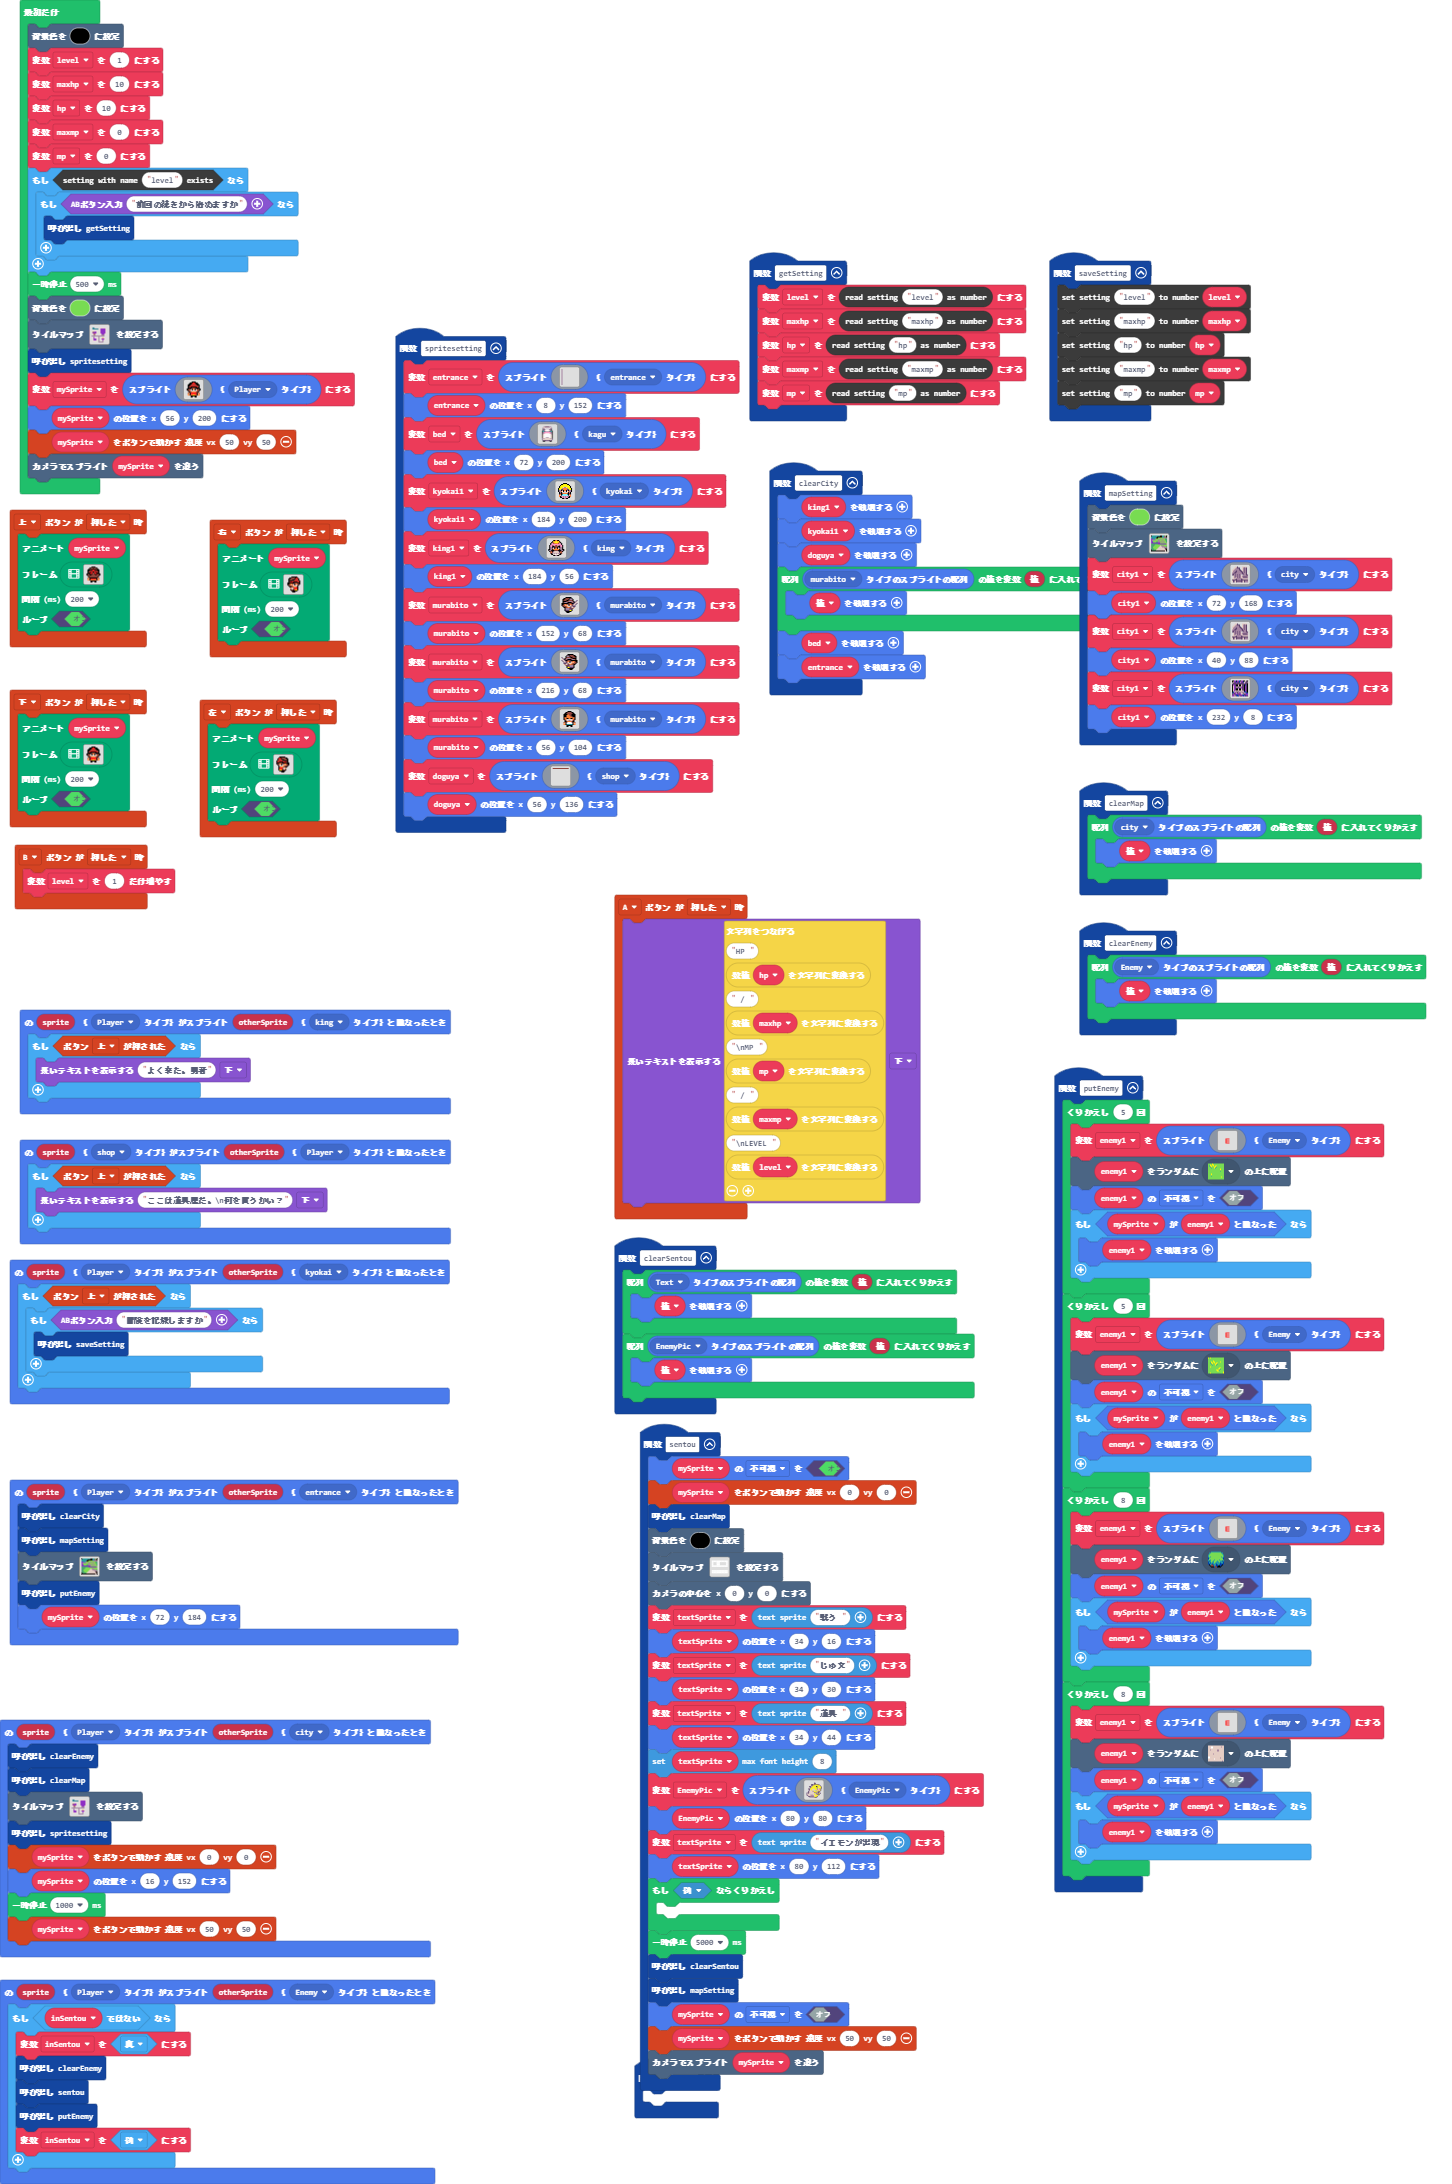
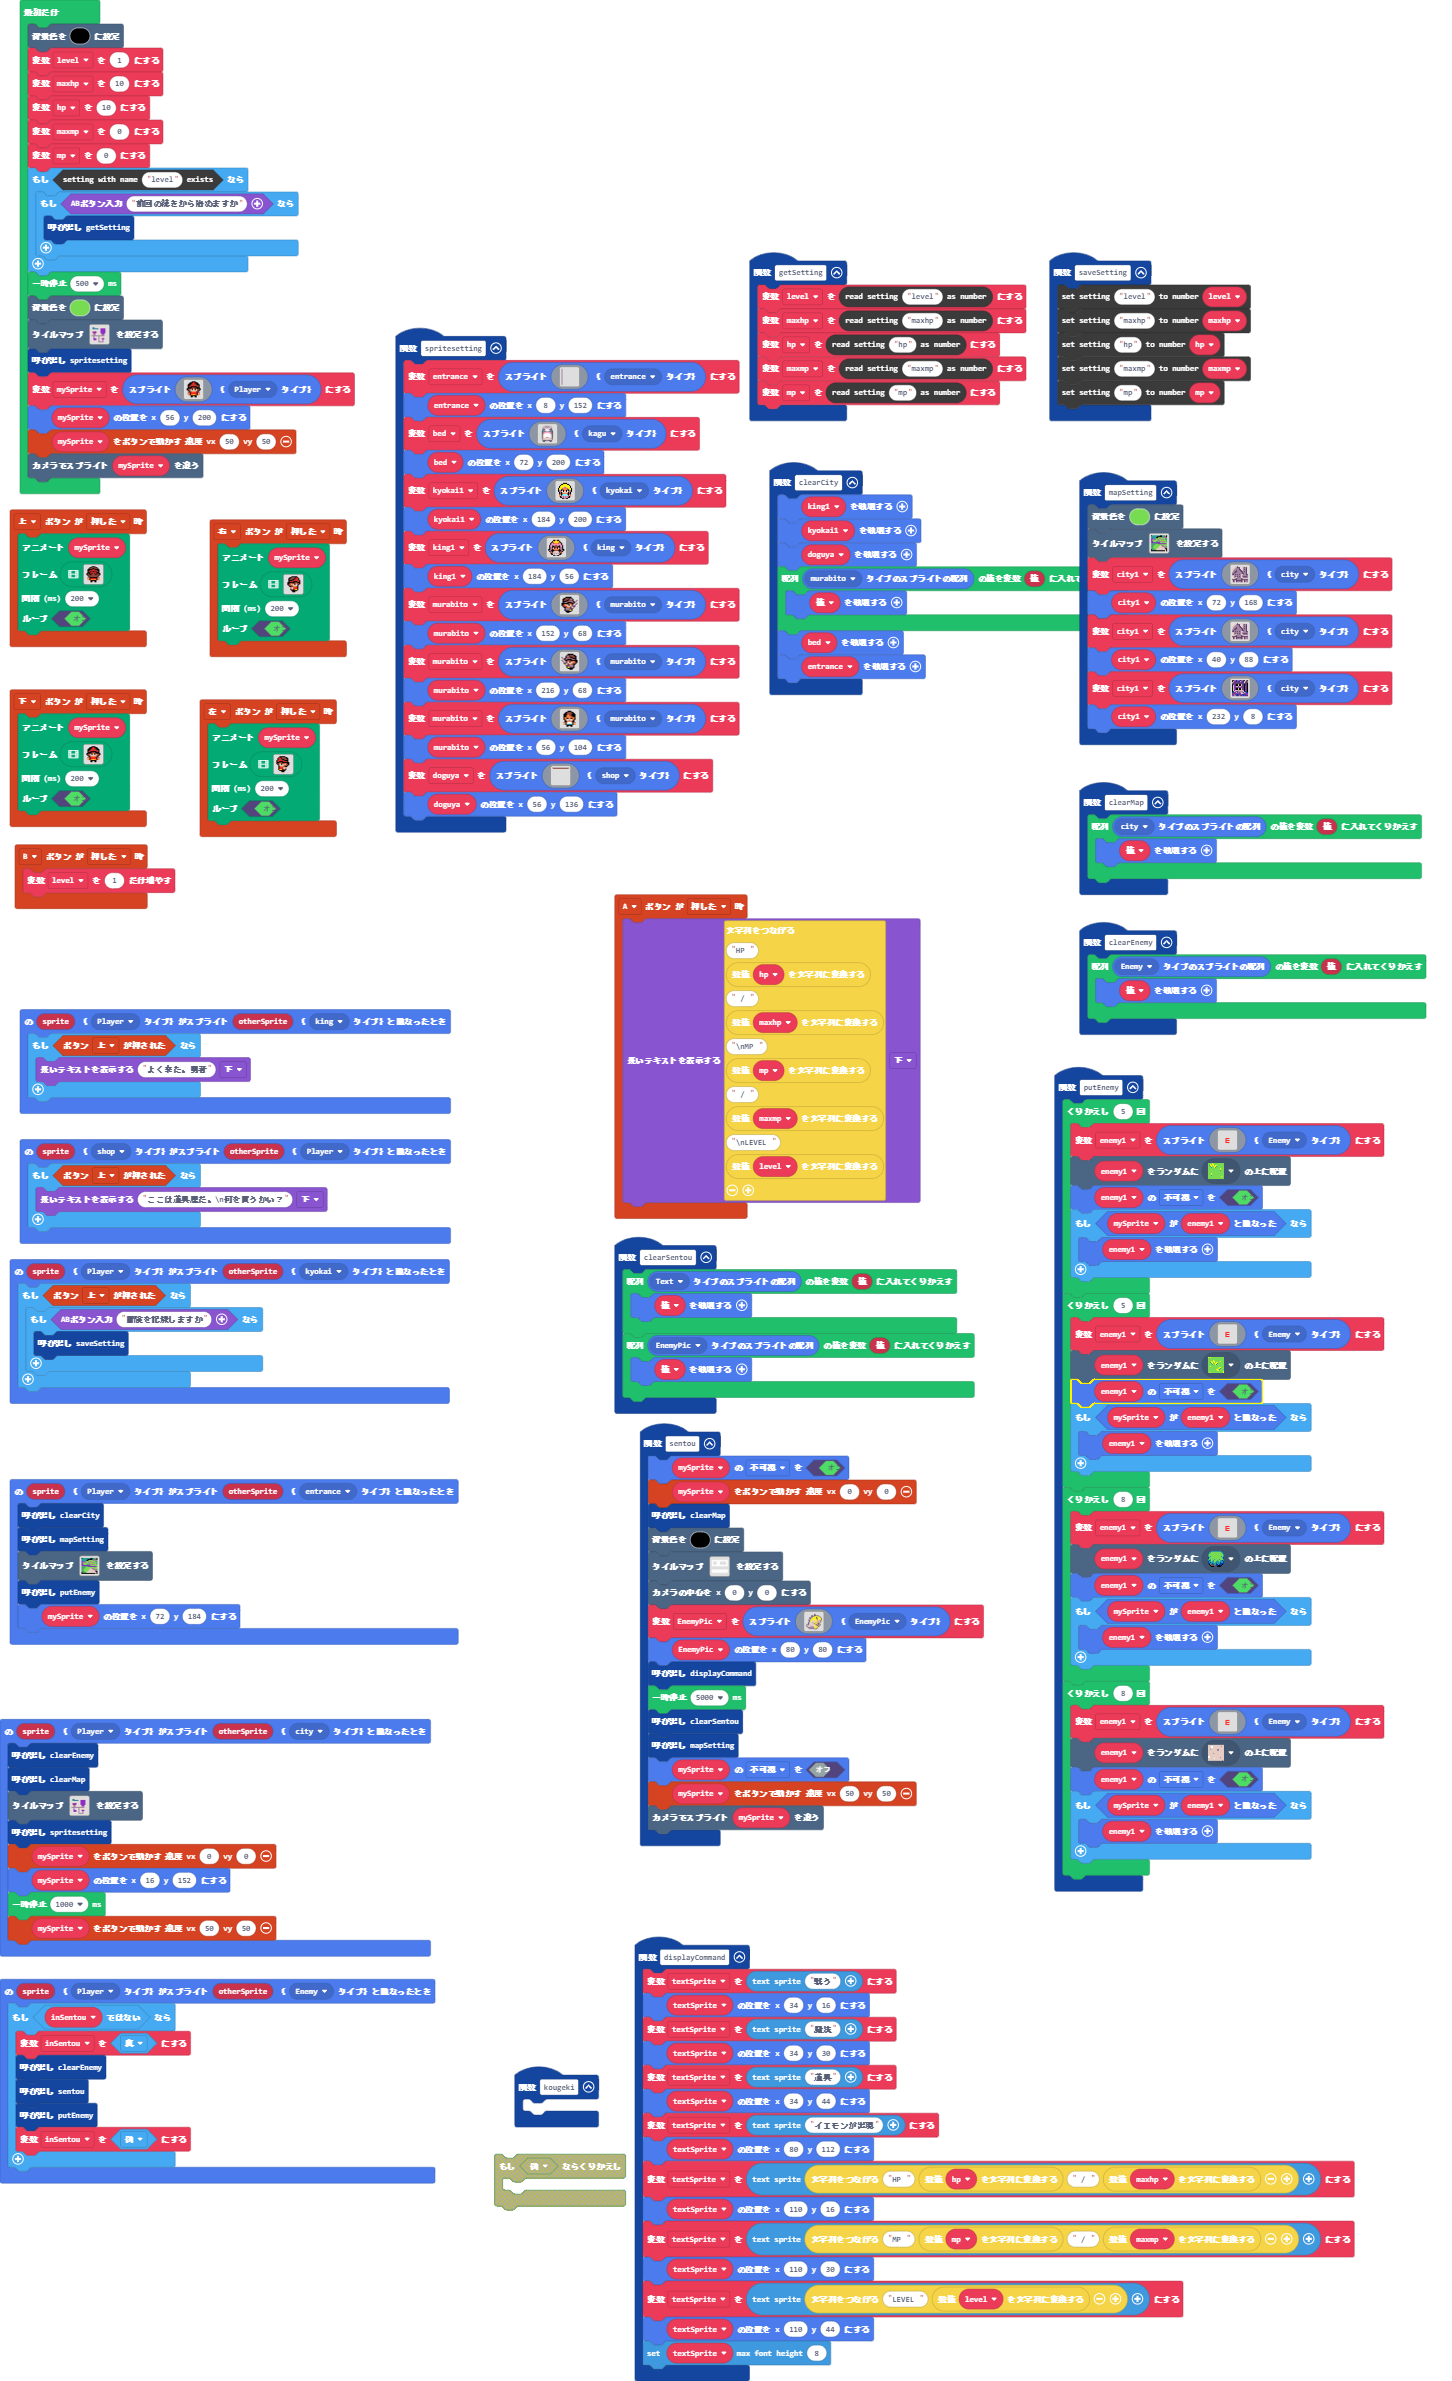
更新 main.blocks, main.ts

diff --git a/main.ts b/main.ts
@@ -112,7 +112,7 @@ function putEnemy () {
             . . . . . . . . . . . . . . . . 
             `, SpriteKind.Enemy)
         tiles.placeOnRandomTile(enemy1, sprites.castle.tileGrass1)
-        enemy1.setFlag(SpriteFlag.Invisible, false)
+        enemy1.setFlag(SpriteFlag.Invisible, true)
         if (mySprite.overlapsWith(enemy1)) {
             enemy1.destroy()
         }
@@ -137,7 +137,7 @@ function putEnemy () {
             . . . . . . . . . . . . . . . . 
             `, SpriteKind.Enemy)
         tiles.placeOnRandomTile(enemy1, sprites.castle.tileGrass3)
-        enemy1.setFlag(SpriteFlag.Invisible, false)
+        enemy1.setFlag(SpriteFlag.Invisible, true)
         if (mySprite.overlapsWith(enemy1)) {
             enemy1.destroy()
         }
@@ -162,7 +162,7 @@ function putEnemy () {
             . . . . . . . . . . . . . . . . 
             `, SpriteKind.Enemy)
         tiles.placeOnRandomTile(enemy1, sprites.builtin.forestTiles0)
-        enemy1.setFlag(SpriteFlag.Invisible, false)
+        enemy1.setFlag(SpriteFlag.Invisible, true)
         if (mySprite.overlapsWith(enemy1)) {
             enemy1.destroy()
         }
@@ -187,7 +187,7 @@ function putEnemy () {
             . . . . . . . . . . . . . . . . 
             `, SpriteKind.Enemy)
         tiles.placeOnRandomTile(enemy1, sprites.castle.tilePath5)
-        enemy1.setFlag(SpriteFlag.Invisible, false)
+        enemy1.setFlag(SpriteFlag.Invisible, true)
         if (mySprite.overlapsWith(enemy1)) {
             enemy1.destroy()
         }
@@ -377,13 +377,6 @@ function sentou () {
     scene.setBackgroundColor(15)
     tiles.setTilemap(tilemap`レベル3`)
     scene.centerCameraAt(0, 0)
-    textSprite = textsprite.create("戦う　")
-    textSprite.setPosition(34, 16)
-    textSprite = textsprite.create("じゅ文")
-    textSprite.setPosition(34, 30)
-    textSprite = textsprite.create("道具　")
-    textSprite.setPosition(34, 44)
-    textSprite.setMaxFontHeight(8)
     EnemyPic = sprites.create(img`
         ........................
         ............cc..........
@@ -411,11 +404,7 @@ function sentou () {
         .............ccc........
         `, SpriteKind.EnemyPic)
     EnemyPic.setPosition(80, 80)
-    textSprite = textsprite.create("イエモンが出現")
-    textSprite.setPosition(80, 112)
-    while (false) {
-    	
-    }
+    displayCommand()
     pause(5000)
     clearSentou()
     mapSetting()
@@ -716,6 +705,23 @@ function clearMap () {
         値.destroy()
     }
 }
+function displayCommand () {
+    textSprite = textsprite.create("戦う")
+    textSprite.setPosition(34, 16)
+    textSprite = textsprite.create("魔法")
+    textSprite.setPosition(34, 30)
+    textSprite = textsprite.create("道具")
+    textSprite.setPosition(34, 44)
+    textSprite = textsprite.create("イエモンが出現")
+    textSprite.setPosition(80, 112)
+    textSprite = textsprite.create("HP " + convertToText(hp) + " / " + convertToText(maxhp))
+    textSprite.setPosition(110, 16)
+    textSprite = textsprite.create("MP " + convertToText(mp) + " / " + convertToText(maxmp))
+    textSprite.setPosition(110, 30)
+    textSprite = textsprite.create("LEVEL " + convertToText(level))
+    textSprite.setPosition(110, 44)
+    textSprite.setMaxFontHeight(8)
+}
 sprites.onOverlap(SpriteKind.Player, SpriteKind.city, function (sprite, otherSprite) {
     clearEnemy()
     clearMap()
@@ -751,9 +757,9 @@ controller.A.onEvent(ControllerButtonEvent.Pressed, function () {
     game.showLongText("HP " + convertToText(hp) + " / " + convertToText(maxhp) + "\\nMP " + convertToText(mp) + " / " + convertToText(maxmp) + "\\nLEVEL " + convertToText(level), DialogLayout.Bottom)
 })
 let inSentou = false
+let textSprite: TextSprite = null
 let city1: Sprite = null
 let EnemyPic: Sprite = null
-let textSprite: TextSprite = null
 let doguya: Sprite = null
 let murabito: Sprite = null
 let king1: Sprite = null
